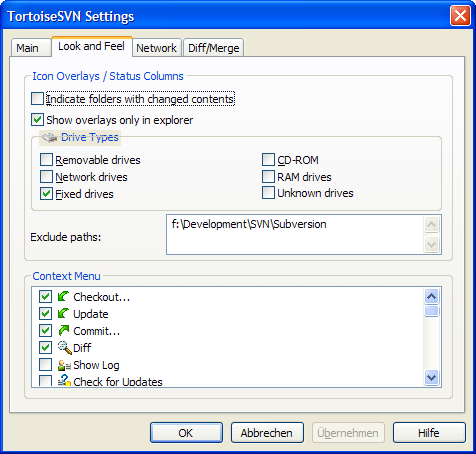
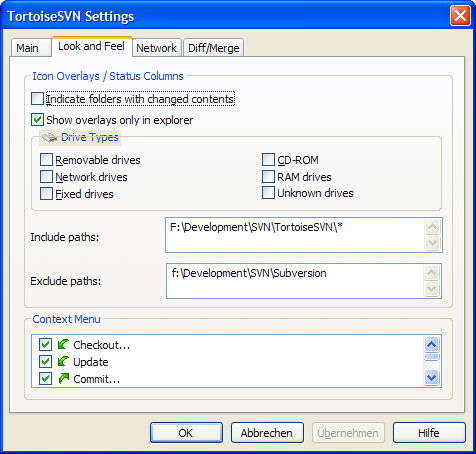
Add also "include paths" for the overlays, not just "exclude paths".
Adjust also the docs to reflect that change.

git-svn-id: https://svn.code.sf.net/p/tortoisesvn/code@1523 154be670-7969-47af-9ab0-c6fb378d2295

diff --git a/trunk/src/TortoiseProc/SetOverlayPage.cpp b/trunk/src/TortoiseProc/SetOverlayPage.cpp
@@ -37,6 +37,7 @@ CSetOverlayPage::CSetOverlayPage()
 	, m_bUnknown(FALSE)
 	, m_bOnlyExplorer(FALSE)
 	, m_sExcludePaths(_T(""))
+	, m_sIncludePaths(_T(""))
 {
 	m_regShowChangedDirs = CRegDWORD(_T("Software\\TortoiseSVN\\RecursiveOverlay"));
 	m_regOnlyExplorer = CRegDWORD(_T("Software\\TortoiseSVN\\OverlaysOnlyInExplorer"), FALSE);
@@ -48,6 +49,7 @@ CSetOverlayPage::CSetOverlayPage()
 	m_regDriveMaskUnknown = CRegDWORD(_T("Software\\TortoiseSVN\\DriveMaskUnknown"));
 	m_regTopmenu = CRegDWORD(_T("Software\\TortoiseSVN\\ContextMenuEntries"), MENUCHECKOUT | MENUUPDATE | MENUCOMMIT);
 	m_regExcludePaths = CRegString(_T("Software\\TortoiseSVN\\OverlayExcludeList"));
+	m_regIncludePaths = CRegString(_T("Software\\TortoiseSVN\\OverlayIncludeList"));
 
 	m_bShowChangedDirs = m_regShowChangedDirs;
 	m_bOnlyExplorer = m_regOnlyExplorer;
@@ -60,6 +62,8 @@ CSetOverlayPage::CSetOverlayPage()
 	m_topmenu = m_regTopmenu;
 	m_sExcludePaths = m_regExcludePaths;
 	m_sExcludePaths.Replace(_T("\n"), _T("\r\n"));
+	m_sIncludePaths = m_regIncludePaths;
+	m_sIncludePaths.Replace(_T("\n"), _T("\r\n"));
 }
 
 CSetOverlayPage::~CSetOverlayPage()
@@ -80,6 +84,7 @@ void CSetOverlayPage::DoDataExchange(CDataExchange* pDX)
 	DDX_Check(pDX, IDC_ONLYEXPLORER, m_bOnlyExplorer);
 	DDX_Control(pDX, IDC_MENULIST, m_cMenuList);
 	DDX_Text(pDX, IDC_EXCLUDEPATHS, m_sExcludePaths);
+	DDX_Text(pDX, IDC_INCLUDEPATHS, m_sIncludePaths);
 }
 
 
@@ -94,6 +99,7 @@ BEGIN_MESSAGE_MAP(CSetOverlayPage, CPropertyPage)
 	ON_BN_CLICKED(IDC_ONLYEXPLORER, OnBnClickedOnlyexplorer)
 	ON_NOTIFY(LVN_ITEMCHANGED, IDC_MENULIST, OnLvnItemchangedMenulist)
 	ON_EN_CHANGE(IDC_EXCLUDEPATHS, OnEnChangeExcludepaths)
+	ON_EN_CHANGE(IDC_INCLUDEPATHS, OnEnChangeIncludepaths)
 END_MESSAGE_MAP()
 
 
@@ -111,8 +117,15 @@ void CSetOverlayPage::SaveData()
 		m_regDriveMaskUnknown = m_bUnknown;
 		m_regTopmenu = m_topmenu;
 		m_sExcludePaths.Replace(_T("\r"), _T(""));
+		if (m_sExcludePaths.Right(1).Compare(_T("\n"))!=0)
+			m_sExcludePaths += _T("\n");
 		m_regExcludePaths = m_sExcludePaths;
 		m_sExcludePaths.Replace(_T("\n"), _T("\r\n"));
+		m_sIncludePaths.Replace(_T("\r"), _T(""));
+		if (m_sIncludePaths.Right(1).Compare(_T("\n"))!=0)
+			m_sIncludePaths += _T("\n");
+		m_regIncludePaths = m_sIncludePaths;
+		m_sIncludePaths.Replace(_T("\n"), _T("\r\n"));
 	}
 }
 
@@ -127,6 +140,7 @@ BOOL CSetOverlayPage::OnInitDialog()
 	m_tooltips.AddTool(IDC_ONLYEXPLORER, IDS_SETTINGS_ONLYEXPLORER_TT);
 	m_tooltips.AddTool(IDC_MENULIST, IDS_SETTINGS_MENULAYOUT_TT);
 	m_tooltips.AddTool(IDC_EXCLUDEPATHS, IDS_SETTINGS_EXCLUDELIST_TT);	
+	m_tooltips.AddTool(IDC_INCLUDEPATHS, IDS_SETTINGS_INCLUDELIST_TT);	
 
 	m_cMenuList.SetExtendedStyle(LVS_EX_CHECKBOXES | LVS_EX_FULLROWSELECT | LVS_EX_DOUBLEBUFFER);
 
@@ -292,6 +306,11 @@ void CSetOverlayPage::OnLvnItemchangedMenulist(NMHDR *pNMHDR, LRESULT *pResult)
 }
 
 void CSetOverlayPage::OnEnChangeExcludepaths()
+{
+	SetModified();
+}
+
+void CSetOverlayPage::OnEnChangeIncludepaths()
 {
 	SetModified();
 }

diff --git a/trunk/src/TortoiseShell/ShellCache.h b/trunk/src/TortoiseShell/ShellCache.h
@@ -42,6 +42,7 @@ public:
 		driveram = CRegStdWORD(_T("Software\\TortoiseSVN\\DriveMaskRAM"));
 		driveunknown = CRegStdWORD(_T("Software\\TortoiseSVN\\DriveMaskUnknown"));
 		excludelist = CRegStdString(_T("Software\\TortoiseSVN\\OverlayExcludeList"));
+		includelist = CRegStdString(_T("Software\\TortoiseSVN\\OverlayIncludeList"));
 		recursiveticker = GetTickCount();
 		folderoverlayticker = GetTickCount();
 		driveticker = recursiveticker;
@@ -49,6 +50,7 @@ public:
 		langticker = recursiveticker;
 		columnrevformatticker = recursiveticker;
 		excludelistticker = recursiveticker;
+		includelistticker = recursiveticker;
 		menulayout = CRegStdWORD(_T("Software\\TortoiseSVN\\ContextMenuEntries"), MENUCHECKOUT | MENUUPDATE | MENUCOMMIT);
 		langid = CRegStdWORD(_T("Software\\TortoiseSVN\\LanguageID"), 1033);
 		blockstatus = CRegStdWORD(_T("Software\\TortoiseSVN\\BlockStatus"), 0);
@@ -136,6 +138,20 @@ public:
 	}
 	BOOL IsPathAllowed(LPCTSTR path)
 	{
+		IncludeListValid();
+		for (std::vector<stdstring>::iterator I = invector.begin(); I != invector.end(); ++I)
+		{
+			if (I->empty())
+				continue;
+			if (I->at(I->size()-1)=='*')
+			{
+				stdstring str = I->substr(0, I->size()-1);
+				if (_tcsnicmp(str.c_str(), path, str.size())==0)
+					return TRUE;
+			}
+			else if (_tcsicmp(I->c_str(), path)==0)
+				return TRUE;
+		}
 		UINT drivetype = 0;
 		int drivenumber = PathGetDriveNumber(path);
 		if ((drivenumber >=0)&&(drivenumber < 25))
@@ -263,6 +279,32 @@ private:
 			excludeliststr = (stdstring)excludelist;
 		}
 	}
+	void IncludeListValid()
+	{
+		if ((GetTickCount() - EXCLUDELISTTIMEOUT)>includelistticker)
+		{
+			includelistticker = GetTickCount();
+			includelist.read();
+			if (includeliststr.compare((stdstring)includelist)==0)
+				return;
+			includeliststr = (stdstring)includelist;
+			invector.clear();
+			int pos = 0, pos_ant = 0;
+			pos = includeliststr.find(_T("\n"), pos_ant);
+			while (pos != stdstring::npos)
+			{
+				stdstring token = includeliststr.substr(pos_ant, pos-pos_ant);
+				invector.push_back(token);
+				pos_ant = pos+1;
+				pos = includeliststr.find(_T("\n"), pos_ant);
+			}
+			if (!includeliststr.empty())
+			{
+				invector.push_back(includeliststr.substr(pos_ant, includeliststr.size()-1));
+			}
+			includeliststr = (stdstring)includelist;
+		}
+	}
 	CRegStdWORD blockstatus;
 	CRegStdWORD langid;
 	CRegStdWORD showrecursive;
@@ -277,6 +319,9 @@ private:
 	CRegStdString excludelist;
 	stdstring excludeliststr;
 	std::vector<stdstring> exvector;
+	CRegStdString includelist;
+	stdstring includeliststr;
+	std::vector<stdstring> invector;
 	DWORD recursiveticker;
 	DWORD folderoverlayticker;
 	DWORD driveticker;
@@ -286,6 +331,7 @@ private:
 	DWORD blockstatusticker;
 	DWORD columnrevformatticker;
 	DWORD excludelistticker;
+	DWORD includelistticker;
 	UINT  drivetypecache[27];
 	TCHAR drivetypepathcache[MAX_PATH];
 	NUMBERFMT columnrevformat;

diff --git a/trunk/src/TortoiseProc/resource.h b/trunk/src/TortoiseProc/resource.h
@@ -1,6 +1,6 @@
 //{{NO_DEPENDENCIES}}
 // Microsoft Visual C++ generated include file.
-// Used by d:\Development\Subversion\TortoiseSVN\src\Resources\TortoiseProcENG.rc
+// Used by f:\Development\Svn\TortoiseSVN\src\Resources\TortoiseProcENG.rc
 //
 #define IDR_MANIFEST                    1
 #define IDR_MAINFRAME                   1
@@ -109,6 +109,7 @@
 #define IDC_EDIT2                       1036
 #define IDC_BROWSE2                     1036
 #define IDC_CHECKOUTDIRECTORY_BROWSE    1036
+#define IDC_INCLUDEPATHS                1036
 #define IDC_REPOS_TREE                  1037
 #define IDC_SERVERPORT                  1038
 #define IDC_USERNAME                    1039
@@ -431,6 +432,7 @@
 #define IDS_SETTINGS_ONLYEXPLORER_TT    3101
 #define IDS_SETTINGS_MENULAYOUT_TT      3102
 #define IDS_SETTINGS_EXCLUDELIST_TT     3103
+#define IDS_SETTINGS_INCLUDELIST_TT     3104
 #define IDS_CHECKNEWER_YOURVERSION      3200
 #define IDS_CHECKNEWER_CURRENTVERSION   3201
 #define IDS_CHECKNEWER_YOURUPTODATE     3202

diff --git a/trunk/src/TortoiseProc/SetOverlayPage.h b/trunk/src/TortoiseProc/SetOverlayPage.h
@@ -94,6 +94,8 @@ private:
 	CRegDWORD		m_regTopmenu;
 	CRegString		m_regExcludePaths;
 	CString			m_sExcludePaths;
+	CRegString		m_regIncludePaths;
+	CString			m_sIncludePaths;
 
 	CImageList		m_imgList;
 	CListCtrl		m_cMenuList;
@@ -113,4 +115,5 @@ public:
 	afx_msg void OnBnClickedOnlyexplorer();
 	afx_msg void OnLvnItemchangedMenulist(NMHDR *pNMHDR, LRESULT *pResult);
 	afx_msg void OnEnChangeExcludepaths();
+	afx_msg void OnEnChangeIncludepaths();
 };
